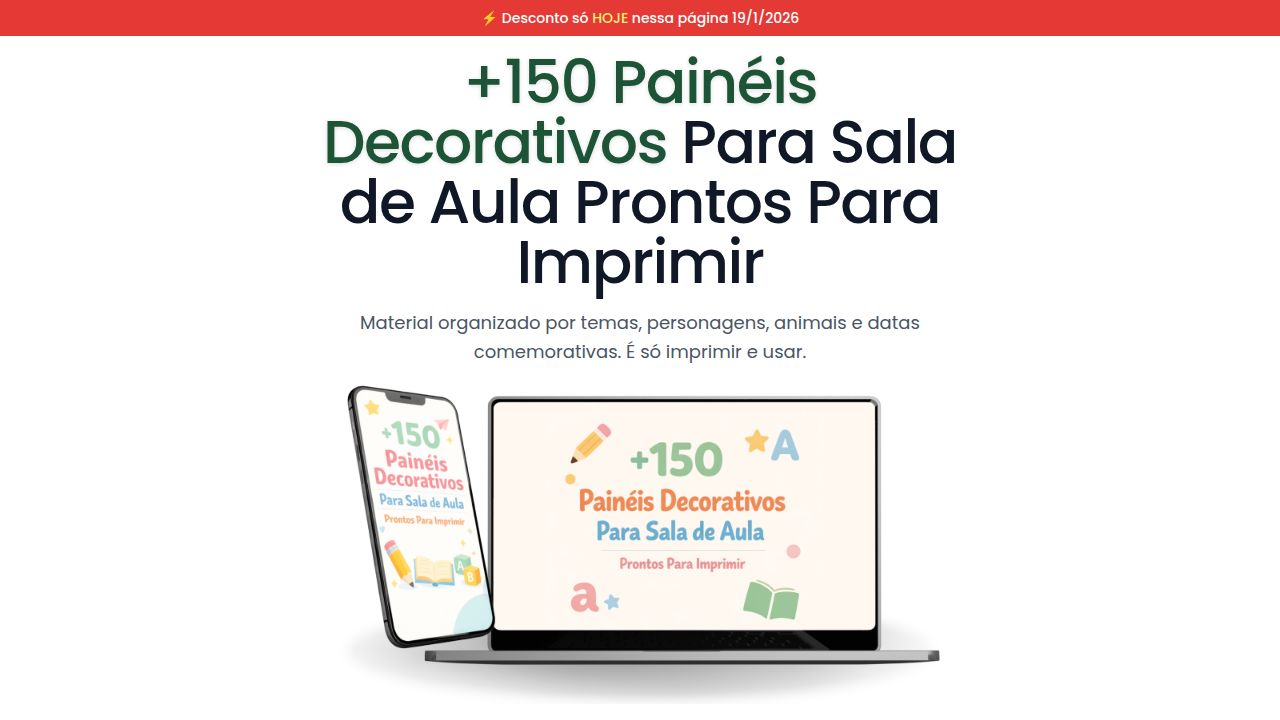
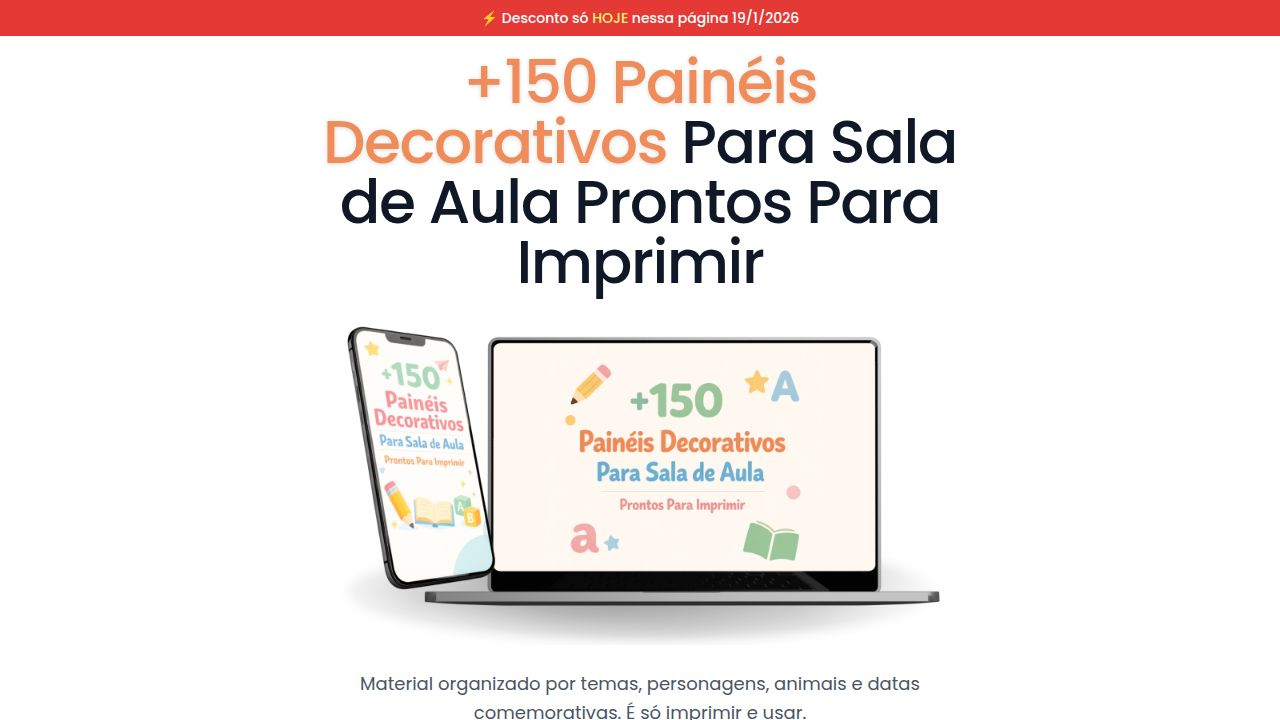
Update headline text color and replace promotional images
Update the headline text color in the Home component to #f08c59 and replace multiple promotional images.

Replit-Commit-Author: Agent
Replit-Commit-Session-Id: 00956627-2d04-4065-825d-cbedb2876cc7
Replit-Commit-Checkpoint-Type: full_checkpoint
Replit-Commit-Event-Id: 5664234e-26df-413b-99a7-b66bb53edb09
Replit-Commit-Screenshot-Url: https://storage.googleapis.com/screenshot-production-us-central1/1d5dc311-ed42-4036-aced-f79a544b6d20/00956627-2d04-4065-825d-cbedb2876cc7/dPj49Lp
Replit-Helium-Checkpoint-Created: true

Changed region(s): [[0.25, 0.4278, 0.75, 1.0], [0.25, 0.0611, 0.6562, 0.2444]]

diff --git a/client/src/pages/Home.tsx b/client/src/pages/Home.tsx
@@ -191,7 +191,7 @@ export default function Home() {
             style={{ fontFamily: "'Poppins', sans-serif" }}
             data-testid="text-headline"
           >
-            <span className="font-bold drop-shadow-sm" style={{ color: "#1d5336" }}>+150 Painéis Decorativos</span>{" "}
+            <span className="font-bold drop-shadow-sm" style={{ color: "#f08c59" }}>+150 Painéis Decorativos</span>{" "}
             Para Sala de Aula Prontos Para Imprimir
           </h1>
           <div className="w-full max-w-[600px] mt-4 relative z-10">
